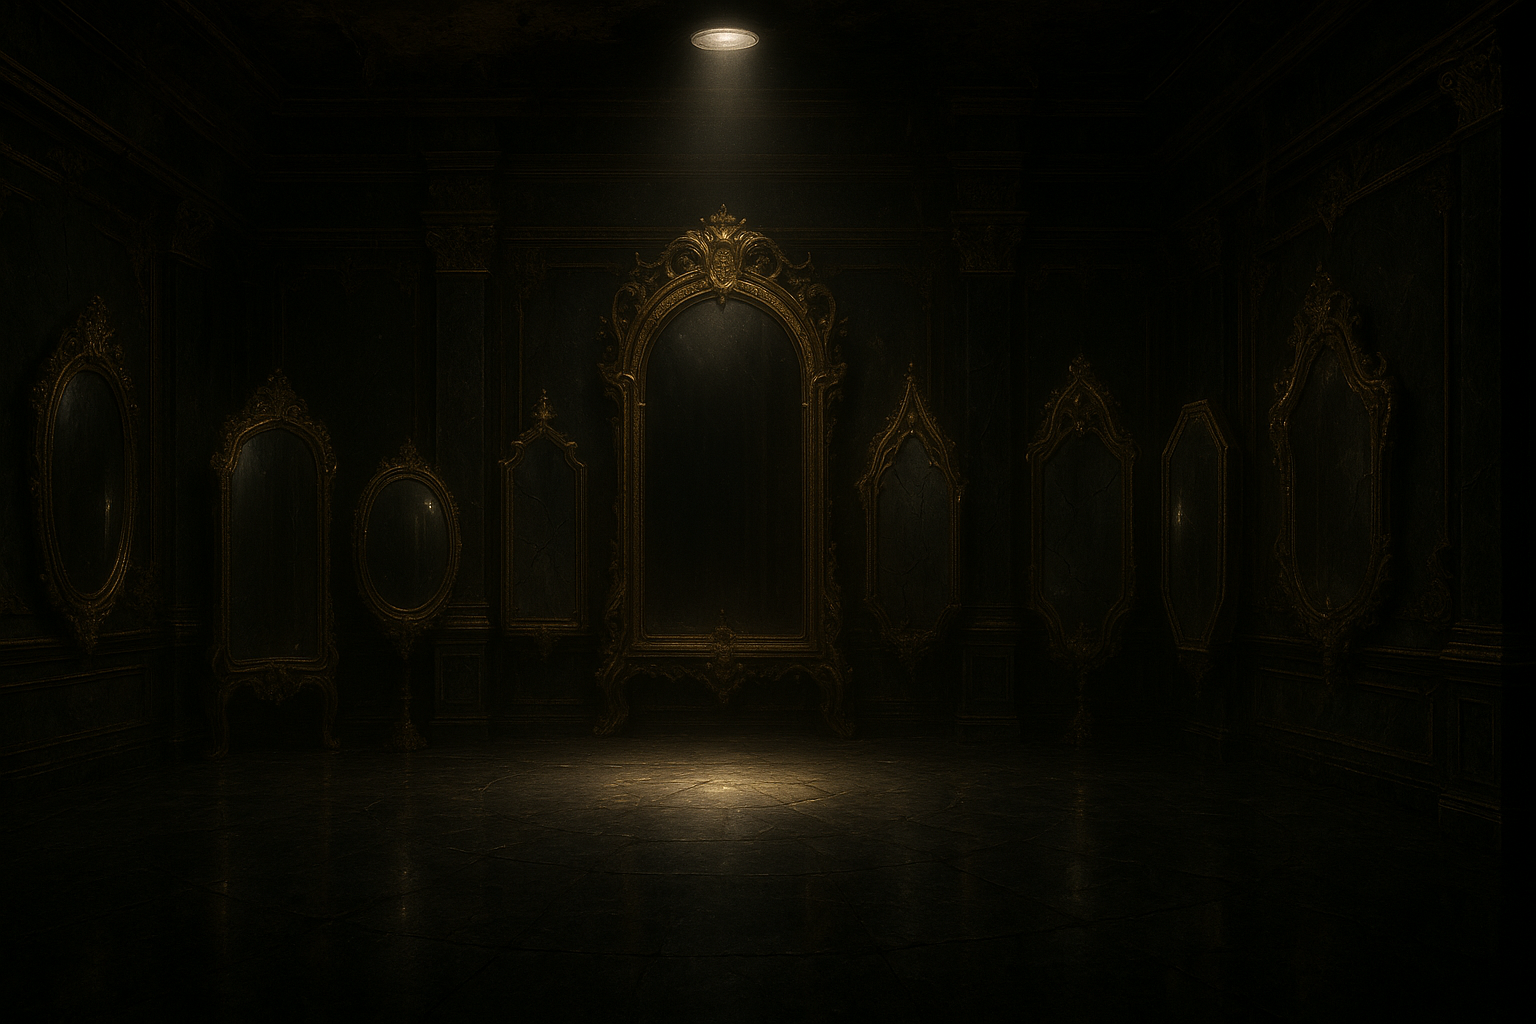
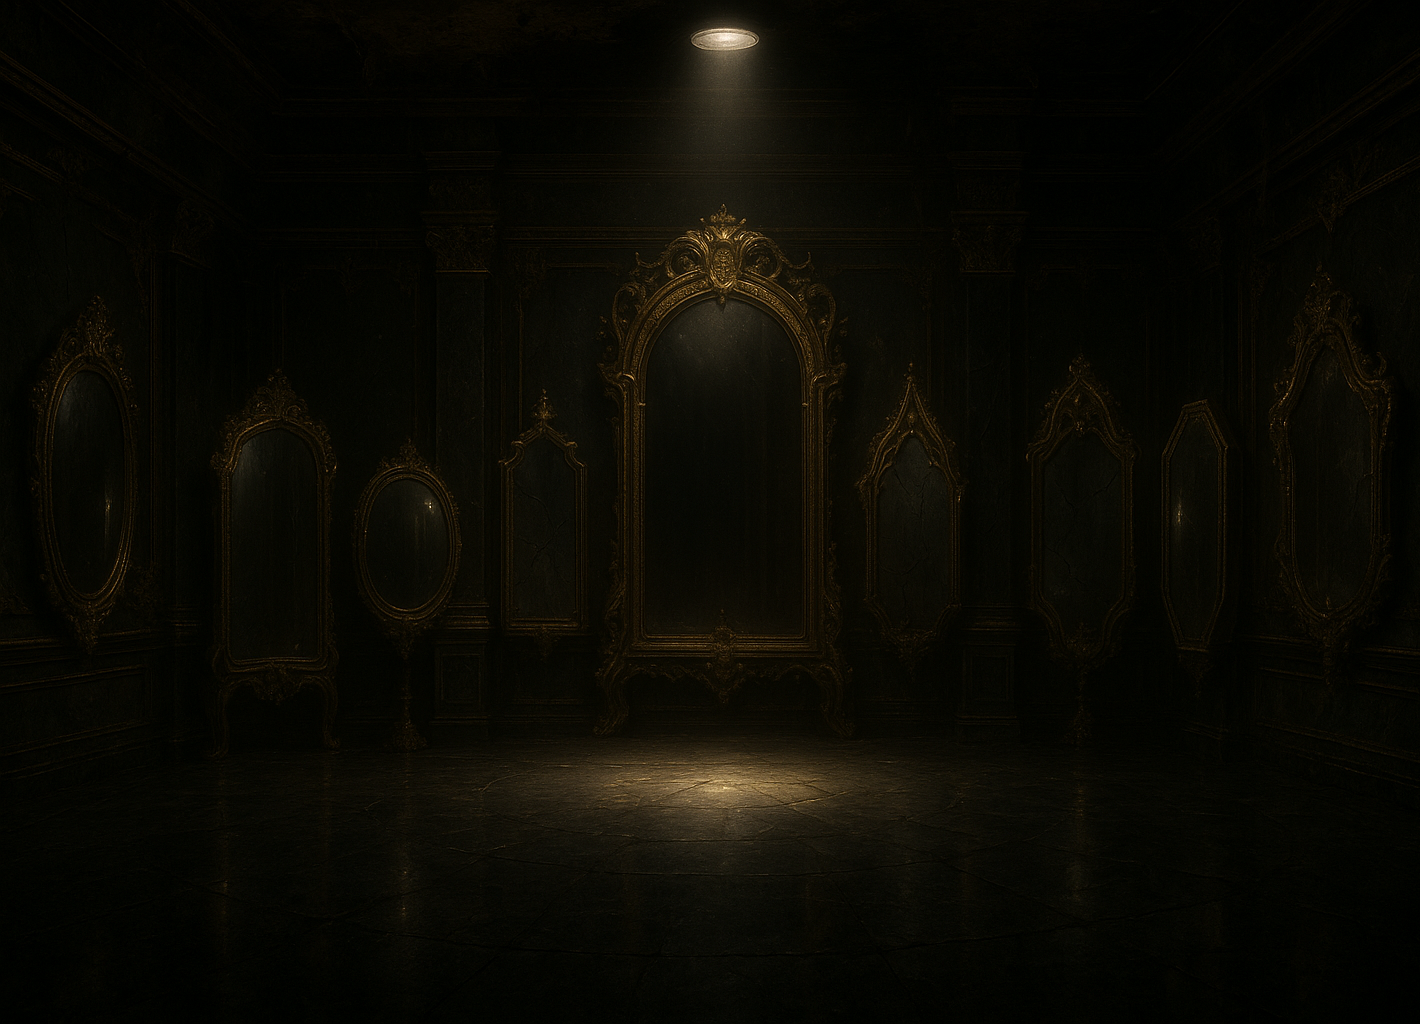
いち

diff --git a/mirror/mirror.css b/mirror/mirror.css
@@ -213,7 +213,7 @@ body.mirror .mirror-bg__img{
 }
 
 /* 位置が気になる時は --bg-x を 48% などに調整できる */
-body.mirror { --bg-x: 100%; --bg-y: 50%; }
+body.mirror { --bg-x: 50%; --bg-y: 50%; }
 
 /* ふちを落として奥行き（任意） */
 body.mirror .mirror-bg::after{
